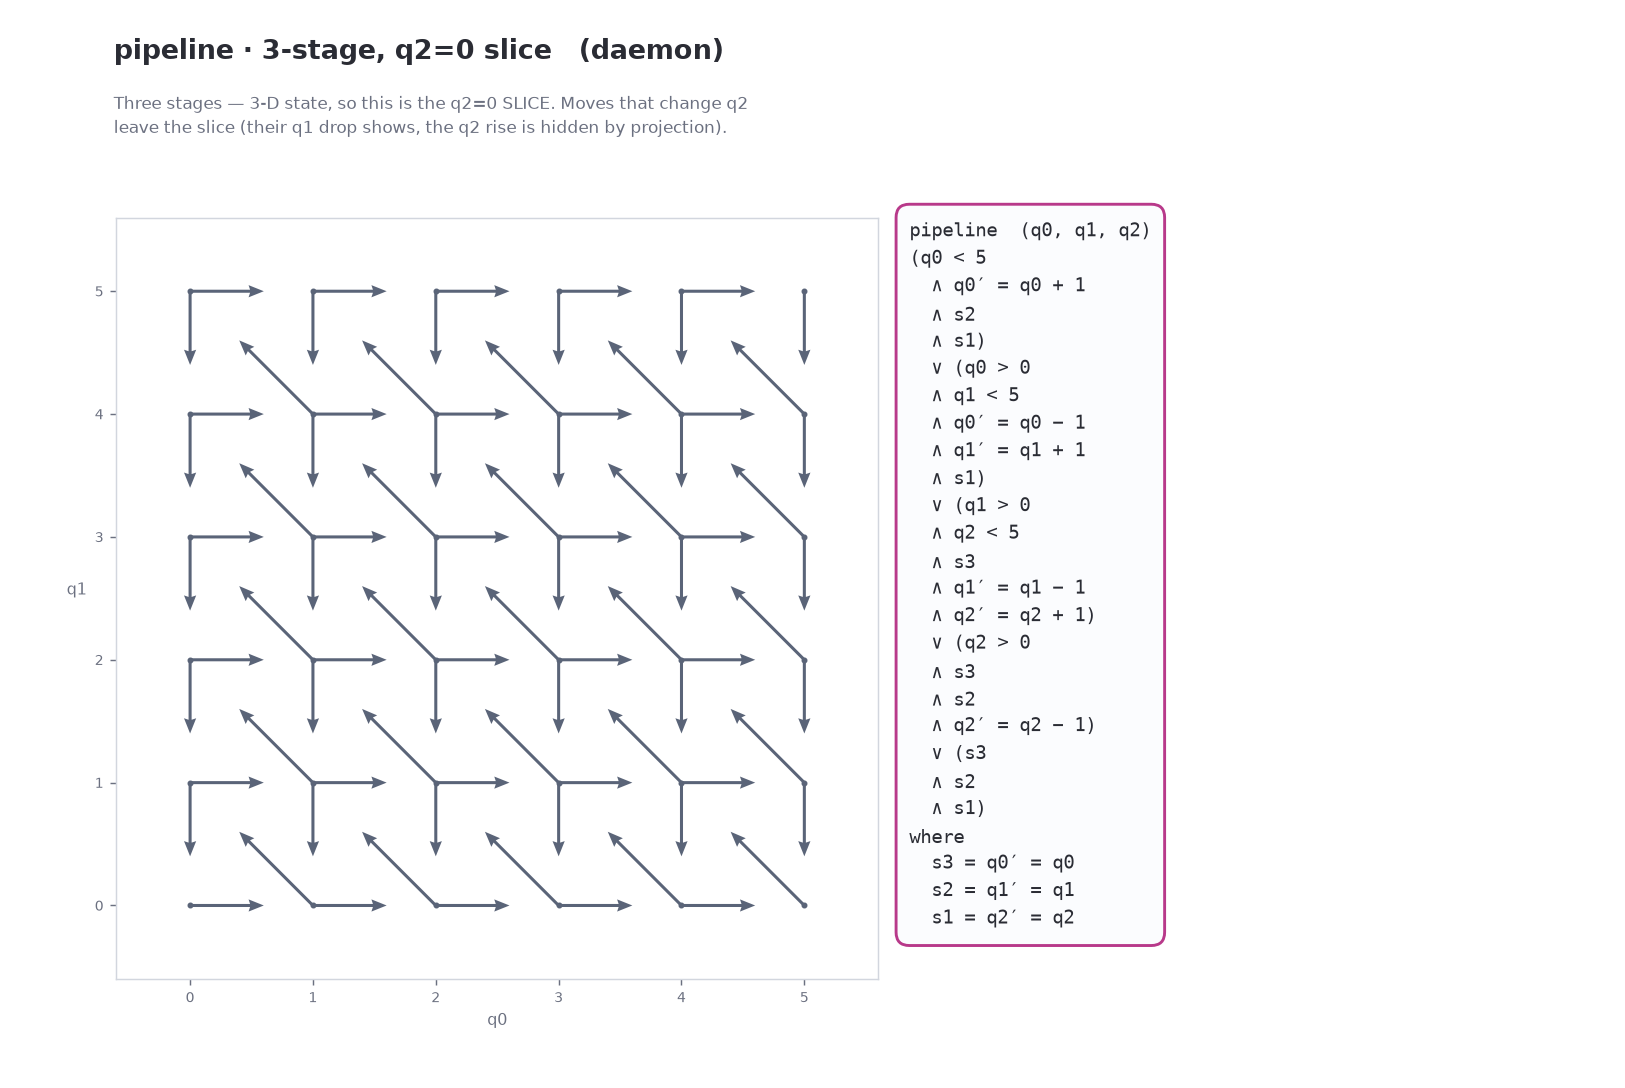
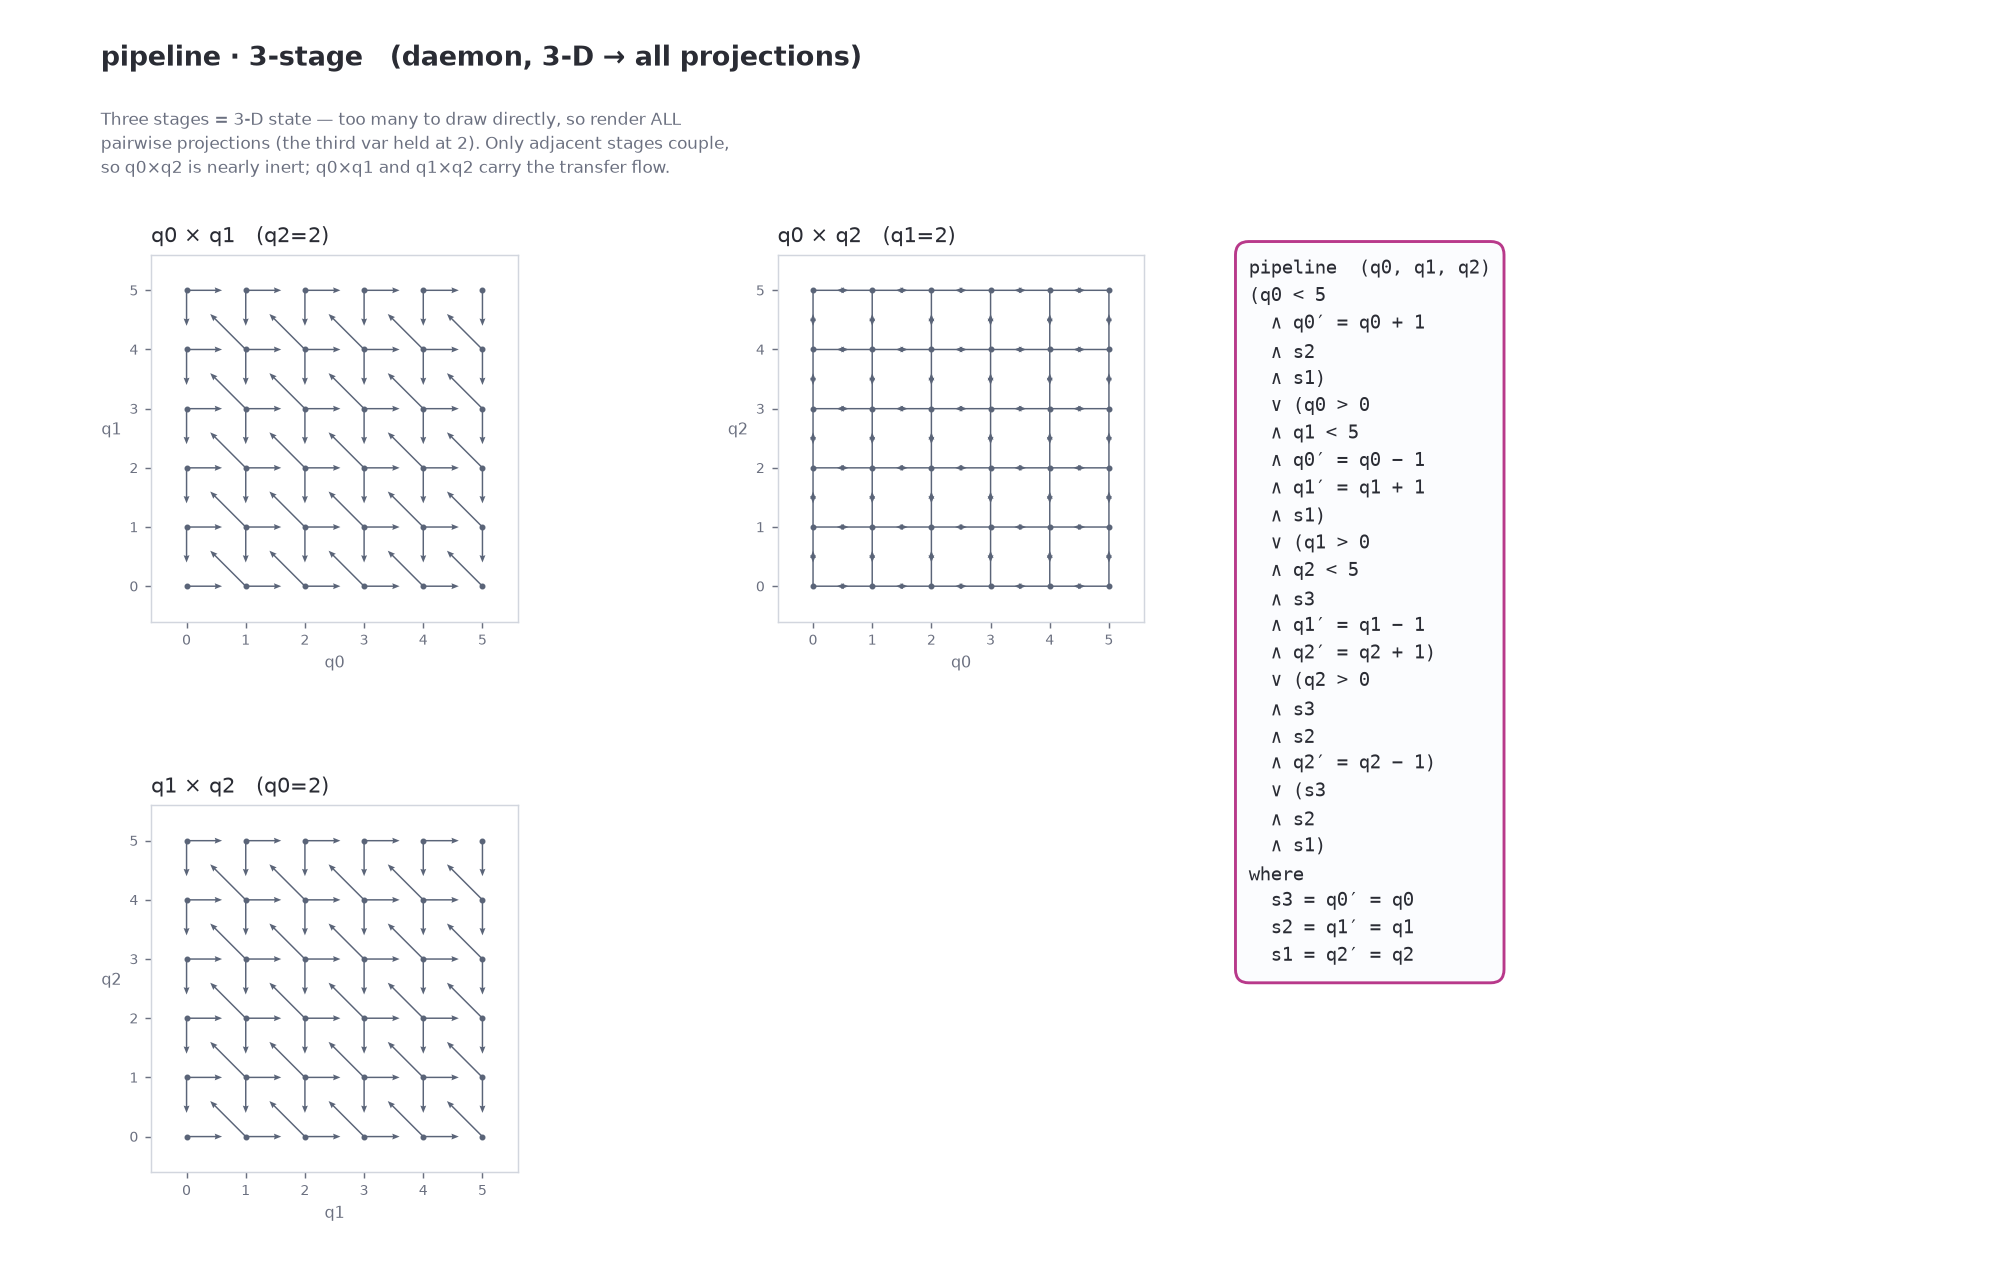
prototype: render high-D example models as their full projection matrix
A model with >2 state variables can't be drawn directly, so render ALL of its
pairwise projections instead of one arbitrary slice. render_to_file now branches:
≤2 vars -> single portrait (unchanged); >2 vars -> a grid of every C(N,2) pairwise
slice (the other vars held at a base value), beside the model's pretty form.

pipeline (q0,q1,q2) now shows all 3 projections — and q0×q2 is visibly inert
(stages 0 and 2 aren't adjacent, so they don't couple), while q0×q1 and q1×q2
carry the transfer flow. The inert panel is the projection that exhibits the
coupling structure.

diff --git a/prototype/model_gallery.py b/prototype/model_gallery.py
@@ -23,6 +23,8 @@ state-space to flow through — so it has no phase portrait. That absence *is* t
 Run from prototype/:  python3 model_gallery.py  -> results/model_gallery.png
 """
 import os
+from itertools import combinations
+from math import ceil
 
 import matplotlib
 matplotlib.use("Agg")
@@ -108,32 +110,61 @@ PANELS = [
      "queue  (q0, q1)",
      "Two bounded stages. Nondeterministic: each state has a FAN of moves\n"
      "(arrive, q0→q1, depart, idle). The flow stays inside [0,CAP]²."),
-    (Pipeline, dict(xaxis="q0", yaxis="q1", xr=(-0.6, 5.6), yr=(-0.6, 5.6),
-                    fixed={"q2": 0}, style="fan", max_succ=6, equal=True,
-                    title="pipeline · 3-stage, q2=0 slice   (daemon)"),
+    (Pipeline, dict(ranges={"q0": (-0.6, 5.6), "q1": (-0.6, 5.6),
+                            "q2": (-0.6, 5.6)}, base={"q0": 2, "q1": 2, "q2": 2},
+                    style="fan", max_succ=6,
+                    title="pipeline · 3-stage   (daemon, 3-D → all projections)"),
      "pipeline  (q0, q1, q2)",
-     "Three stages — 3-D state, so this is the q2=0 SLICE. Moves that change q2\n"
-     "leave the slice (their q1 drop shows, the q2 rise is hidden by projection)."),
+     "Three stages = 3-D state — too many to draw directly, so render ALL\n"
+     "pairwise projections (the third var held at 2). Only adjacent stages couple,\n"
+     "so q0×q2 is nearly inert; q0×q1 and q1×q2 carry the transfer flow."),
 ]
 
 
-def render_to_file(tr, kw, header, blurb, accent, outdir):
-    body = header + "\n" + pretty_step(tr, width=46)
-    nlines = body.count("\n") + 1
-    H = max(5.6, nlines * 0.245 + 2.0)
-    fig = plt.figure(figsize=(12.5, H))
-    fig.suptitle(kw["title"], fontsize=15, color=INK, weight="bold",
-                 x=0.07, ha="left", y=0.965)
-    fig.text(0.07, 0.915, blurb, fontsize=9.5, color=MUTED, va="top",
-             linespacing=1.4)
-    gs = fig.add_gridspec(1, 2, width_ratios=[1.15, 1.0], wspace=0.04,
-                          left=0.07, right=0.97, top=0.80, bottom=0.1)
-    kw2 = dict(kw); kw2.pop("title")
-    pp.render(fig.add_subplot(gs[0]), to_model(tr), title="", **kw2)
-    cax = fig.add_subplot(gs[1]); cax.axis("off")
+def _code_card(fig, cell, body, accent):
+    cax = fig.add_subplot(cell); cax.axis("off")
     cax.text(0.0, 1.0, body, transform=cax.transAxes, va="top", ha="left",
              family="monospace", fontsize=10.5, color=INK, linespacing=1.45,
              bbox=dict(boxstyle="round,pad=0.7", fc="#fbfcfe", ec=accent, lw=1.6))
+
+
+def render_to_file(tr, kw, header, blurb, accent, outdir):
+    model = to_model(tr)
+    body = header + "\n" + pretty_step(tr, width=46)
+    nlines = body.count("\n") + 1
+    title = kw["title"]
+    pairs = list(combinations(model.state, 2))            # all 2-D projections
+
+    if len(model.state) <= 2:                             # single portrait
+        H = max(5.6, nlines * 0.245 + 2.0)
+        fig = plt.figure(figsize=(12.5, H))
+        gs = fig.add_gridspec(1, 2, width_ratios=[1.15, 1.0], wspace=0.04,
+                              left=0.07, right=0.97, top=0.80, bottom=0.1)
+        kw2 = dict(kw); kw2.pop("title")
+        pp.render(fig.add_subplot(gs[0]), model, title="", **kw2)
+        _code_card(fig, gs[1], body, accent)
+    else:                                                 # projection matrix
+        ranges, base = kw["ranges"], kw["base"]
+        cols = 2 if len(pairs) <= 4 else 3
+        rows = ceil(len(pairs) / cols)
+        H = max(nlines * 0.245 + 2.2, rows * 3.9 + 2.0)
+        fig = plt.figure(figsize=(15.5, H))
+        outer = fig.add_gridspec(1, 2, width_ratios=[1.55, 1.0], wspace=0.06,
+                                 left=0.05, right=0.97, top=0.80, bottom=0.08)
+        grid = outer[0].subgridspec(rows, cols, hspace=0.5, wspace=0.34)
+        for k, (a, b) in enumerate(pairs):
+            ax = fig.add_subplot(grid[k // cols, k % cols])
+            fixed = {v: base[v] for v in model.state if v not in (a, b)}
+            held = ", ".join(f"{v}={base[v]}" for v in fixed)
+            pp.render(ax, model, a, b, ranges[a], ranges[b], fixed=fixed,
+                      style=kw.get("style", "fan"), max_succ=kw.get("max_succ", 6),
+                      equal=True, title=f"{a} × {b}   ({held})")
+        _code_card(fig, outer[1], body, accent)
+
+    fig.suptitle(title, fontsize=15, color=INK, weight="bold",
+                 x=0.05, ha="left", y=0.965)
+    fig.text(0.05, 0.915, blurb, fontsize=9.5, color=MUTED, va="top",
+             linespacing=1.4)
     path = os.path.join(outdir, f"{tr.name}.png")
     fig.savefig(path, dpi=130, facecolor="white"); plt.close(fig)
     return path